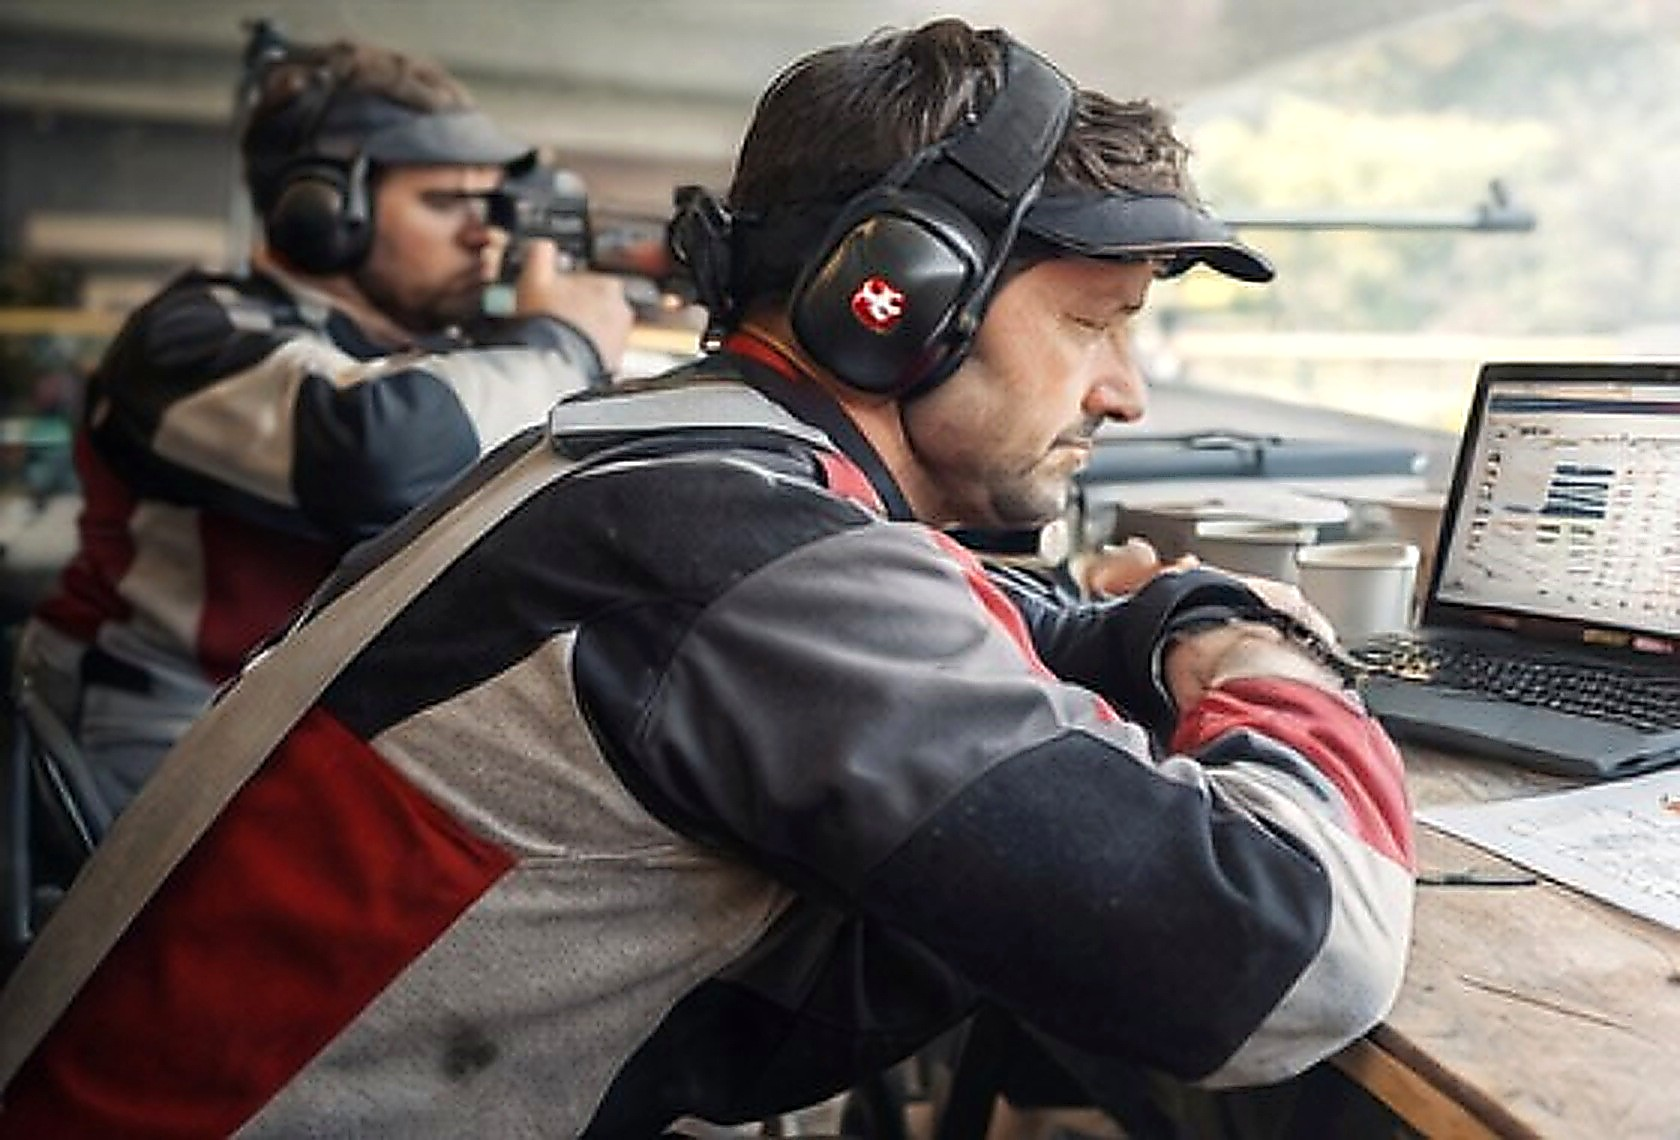
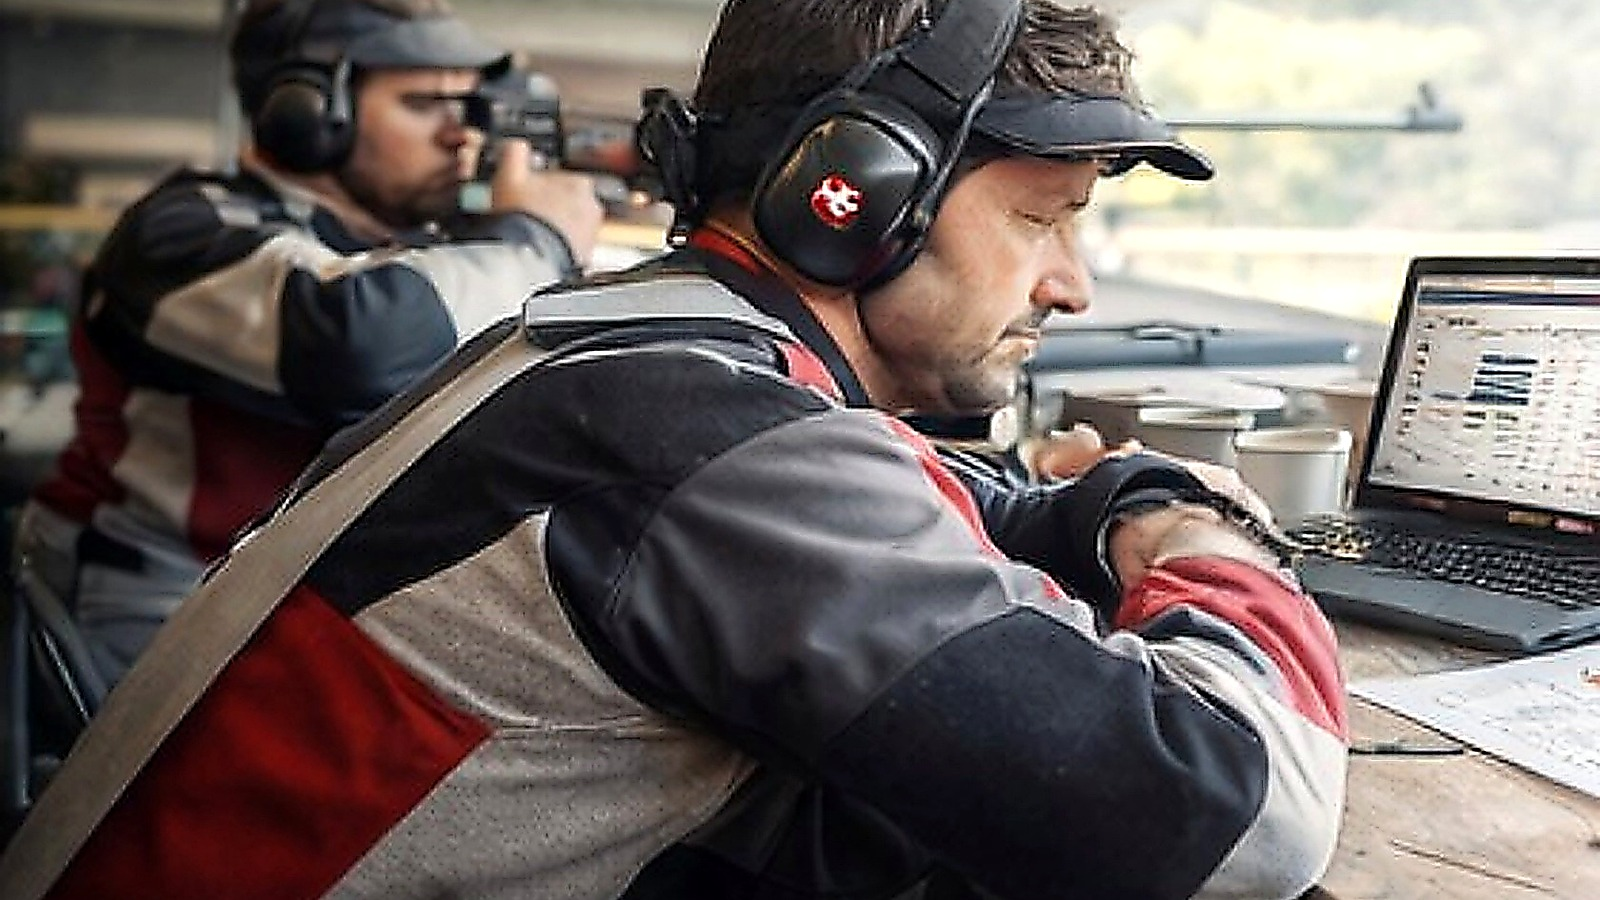
Add files via upload

diff --git a/public/kundenbereich.html b/public/kundenbereich.html
@@ -1,3 +1,136 @@
 <!DOCTYPE html>
-<html lang="de"><head><meta charset="UTF-8"><meta name="viewport" content="width=device-width, initial-scale=1.0"><title>Kundenbereich – mySwissTarget.ch</title><link rel="icon" href="assets/favicon.ico"><link rel="stylesheet" href="styles.css"></head>
-<body><header class="site-header"><nav class="navbar"><a class="brand brand-logo" href="index.html"><img src="assets/logo-nav.png" alt="mySwissTarget.ch"></a><div class="nav-links"><a class="nav-pill" href="index.html#preise">Preise</a><a class="nav-pill" href="bestellung.html">Bestellen</a><a class="btn app-link" href="https://app.myswisstarget.ch" target="_blank" rel="noopener noreferrer">Zur App</a></div></nav></header><main class="page-main"><section class="page-hero"><div class="container"><span class="eyebrow">Kundenbereich</span><h1>Verein, Abo und Rechnungen zentral verwalten</h1><p>Diese Demo zeigt, wie Vereine später ihr Paket, Rechnungen, Zahlungsart und Kontaktdaten selber verwalten können.</p></div></section><section class="section"><div class="container"><div class="module-grid"><article class="page-panel"><h3>Vereinsdaten</h3><p>Kontaktperson, Adresse, E-Mail und Telefonnummer jederzeit anpassen.</p></article><article class="page-panel"><h3>Abo & Paket</h3><p>Basis oder Basis + Pro sehen, Upgrades anfragen und Probeabo verfolgen.</p></article><article class="page-panel"><h3>Rechnungen</h3><p>Offene und bezahlte Rechnungen, Zahlungsarten und nächste Periode im Blick.</p></article></div></div></section></main></body></html>
+<html lang="de">
+<head>
+  <meta charset="UTF-8">
+  <meta name="viewport" content="width=device-width, initial-scale=1.0">
+  <title>Kundenbereich – mySwissTarget.ch</title>
+  <meta name="description" content="Demo für den Kundenbereich von mySwissTarget.ch mit Vereinsdaten, Abo, Rechnungen und Zahlungsarten.">
+  <link rel="icon" href="assets/favicon.ico">
+  <link rel="stylesheet" href="styles.css">
+</head>
+<body>
+  <header class="site-header page-header-solid">
+    <nav class="navbar">
+      <a class="brand brand-logo" href="index.html"><img src="assets/logo-nav.png" alt="mySwissTarget.ch"></a>
+      <div class="nav-links">
+        <a class="nav-pill" href="index.html#preise">Preise</a>
+        <a class="nav-pill" href="bestellung.html">Bestellen</a>
+        <a class="btn app-link" href="https://app.myswisstarget.ch" target="_blank" rel="noopener noreferrer">Zur App</a>
+      </div>
+    </nav>
+  </header>
+
+  <main>
+    <section class="page-hero section">
+      <div class="container">
+        <a class="back-link" href="index.html">← Zurück zur Startseite</a>
+        <div class="section-headline">
+          <span class="eyebrow">Kundenbereich Demo</span>
+          <h1>Vereinsdaten, Abo und Rechnungen zentral verwalten.</h1>
+          <p class="lead max-copy">So kann der Kundenbereich für SwissTarget aussehen: klar, mobil nutzbar und auf Vereine ausgerichtet, die ihre Stammdaten, ihr Paket und ihre Rechnungen selbst im Blick behalten wollen.</p>
+        </div>
+      </div>
+    </section>
+
+    <section class="section">
+      <div class="container customer-grid">
+        <div class="demo-panel form-card">
+          <div class="panel-title-row">
+            <h2>Vereinsdaten bearbeiten</h2>
+            <span class="status-pill active">aktiv</span>
+          </div>
+          <form class="kunden-form">
+            <div class="two-cols">
+              <label><span>Verein</span><input type="text" value="SG Musterfeld"></label>
+              <label><span>Kontaktperson</span><input type="text" value="Max Muster"></label>
+            </div>
+            <div class="two-cols">
+              <label><span>E-Mail</span><input type="email" value="info@sg-musterfeld.ch"></label>
+              <label><span>Telefon</span><input type="text" value="+41 79 123 45 67"></label>
+            </div>
+            <div class="two-cols">
+              <label><span>Strasse</span><input type="text" value="Dorfstrasse 10"></label>
+              <label><span>PLZ / Ort</span><input type="text" value="9100 Herisau"></label>
+            </div>
+            <label><span>Bemerkungen</span><textarea rows="4">Bitte Freischaltung für zwei weitere Vereinsadmins vorbereiten.</textarea></label>
+            <div class="actions">
+              <a class="btn" href="#">Änderungen speichern</a>
+              <a class="secondary-btn" href="#">Kontaktperson wechseln</a>
+            </div>
+            <div class="small-note">Demo-Ansicht: In der Live-Version werden Änderungen direkt in der Datenbank gespeichert.</div>
+          </form>
+        </div>
+
+        <div class="demo-panel">
+          <div class="panel-title-row">
+            <h2>Abo & Paket</h2>
+            <span class="status-pill trial">Probeabo</span>
+          </div>
+          <div class="check-list compact-list">
+            <div class="check-item"><span class="check-icon">✓</span><span><strong>Paket:</strong> Basis + Pro</span></div>
+            <div class="check-item"><span class="check-icon">✓</span><span><strong>Preis:</strong> CHF 35 / Monat nach Probeabo</span></div>
+            <div class="check-item"><span class="check-icon">✓</span><span><strong>Nächster Termin:</strong> 23.04.2026</span></div>
+            <div class="check-item"><span class="check-icon">✓</span><span><strong>Zahlungsart:</strong> Rechnung</span></div>
+          </div>
+          <div class="actions">
+            <a class="secondary-btn" href="#">Auf Karte wechseln</a>
+            <a class="secondary-btn" href="#">Pro-Paket anpassen</a>
+          </div>
+        </div>
+      </div>
+    </section>
+
+    <section class="section">
+      <div class="container content-grid">
+        <div class="demo-panel">
+          <div class="panel-title-row">
+            <h2>Rechnungen</h2>
+            <a class="secondary-btn" href="#">Alle anzeigen</a>
+          </div>
+          <div class="invoice-list">
+            <div class="invoice-item">
+              <div class="invoice-meta"><strong>Rechnung März 2026</strong><span>Basis + Pro · offen · fällig 31.03.2026</span></div>
+              <div class="invoice-action"><strong>CHF 35</strong><div class="small-note">Rechnung</div></div>
+            </div>
+            <div class="invoice-item">
+              <div class="invoice-meta"><strong>Rechnung Februar 2026</strong><span>bezahlt am 28.02.2026</span></div>
+              <div class="invoice-action"><strong>CHF 35</strong><div class="small-note">bezahlt</div></div>
+            </div>
+          </div>
+        </div>
+
+        <div class="demo-panel">
+          <div class="panel-title-row">
+            <h2>Was Vereine hier später können</h2>
+          </div>
+          <ul class="clean-list">
+            <li>Stammdaten selber anpassen</li>
+            <li>Abo und Paket sehen</li>
+            <li>Rechnungen herunterladen</li>
+            <li>Zahlungsart auf Rechnung, Karte oder TWINT umstellen</li>
+            <li>Zusätzliche Admins anfragen</li>
+            <li>Probeabo, aktiv, offen oder pausiert nachvollziehen</li>
+          </ul>
+        </div>
+      </div>
+    </section>
+
+    <section class="section section-last">
+      <div class="container">
+        <div class="cta-banner">
+          <span class="eyebrow">Kundenbereich</span>
+          <h2>Vereine sehen ihr Paket, ihre Daten und ihre Rechnungen auf einen Blick.</h2>
+          <p>Diese Demo zeigt den Aufbau. In der Live-Version wird dieser Bereich direkt mit SwissTarget, Stripe und eurer Lizenzlogik verbunden.</p>
+          <div class="actions center-actions">
+            <a class="btn" href="bestellung.html">Jetzt bestellen</a>
+            <a class="secondary-btn" href="adminbereich.html">Adminbereich ansehen</a>
+          </div>
+        </div>
+      </div>
+    </section>
+  </main>
+
+  <script src="config.js"></script>
+  <script src="app.js"></script>
+</body>
+</html>

diff --git a/public/styles.css b/public/styles.css
@@ -265,12 +265,13 @@ a { color: inherit; text-decoration: none; }
 }
 .card-image {
   width: 100%;
-  height: 320px;
+  aspect-ratio: 4 / 3;
+  min-height: 300px;
   object-fit: cover;
-  object-position: center 42%;
+  object-position: center center;
   background: #e9e6e1;
 }
-.tall-image { object-position: center 38%; }
+.tall-image { object-position: center 40%; }
 .card-body { padding: 28px; }
 .module-label {
   display: inline-flex;
@@ -344,11 +345,17 @@ a { color: inherit; text-decoration: none; }
 }
 .figure-clean img {
   aspect-ratio: 16 / 10;
-  object-position: center 42%;
+  object-position: center 48%;
 }
 .figure-wide img {
   aspect-ratio: 16 / 9;
-  object-position: center 42%;
+  object-position: center 48%;
+}
+.image-only {
+  overflow: hidden;
+}
+.image-only img {
+  display: block;
 }
 .figure-card figcaption {
   padding: 14px 18px 18px;
@@ -505,9 +512,10 @@ a { color: inherit; text-decoration: none; }
   .navbar {
     width: calc(100% - 20px);
     margin-top: 10px;
+    padding: 8px 8px;
   }
   .hero {
-    margin-top: -104px;
+    margin-top: -92px;
   }
   .hero-card-inner {
     width: calc(100% - 20px);
@@ -527,24 +535,41 @@ a { color: inherit; text-decoration: none; }
     gap: 8px;
   }
   .nav-pill { display: none; }
-  .card-image { height: 230px; }
+  .card-image {
+    aspect-ratio: 4 / 3;
+    min-height: 240px;
+  }
+  .figure-clean img,
+  .figure-wide img {
+    aspect-ratio: 4 / 3;
+  }
+  .admin-layout .image-only {
+    order: -1;
+  }
 }
 
 @media (max-width: 560px) {
-  .brand { font-size: 0.94rem; padding: 11px 16px; }
+  .brand { font-size: 0.92rem; padding: 10px 14px; }
+  .brand-logo img { height: 22px; width: auto; }
   .btn, .secondary-btn { width: 100%; }
   .actions { flex-direction: column; }
-  .hero-media { min-height: 520px; }
+  .hero-media { min-height: 500px; }
   .hero-card { bottom: 18px; }
-  .hero h1 { font-size: 2.5rem; }
+  .hero h1 { font-size: 2.35rem; }
   .section-headline h2,
   .split-layout h2,
   .cta-banner h2,
-  .page-hero h1 { font-size: 2rem; }
+  .page-hero h1 { font-size: 1.92rem; }
   .card-body,
   .pricing-shell,
   .price-card,
   .cta-banner { padding: 20px; }
+  .module-card h3 {
+    font-size: 1.78rem;
+  }
+  .card-image {
+    min-height: 250px;
+  }
 }
 
 
@@ -802,3 +827,62 @@ body strong { color: var(--text); }
 .admin-visual{min-height:420px;overflow:hidden}
 .brand-signature img{max-width:min(760px,100%);margin:0 auto}
 @media (max-width: 980px){.card-image,.tall-image{height:260px}.figure-clean,.admin-visual{min-height:320px}}
+
+.customer-grid {
+  display:grid;
+  grid-template-columns: 1.1fr 0.9fr;
+  gap: 20px;
+}
+.form-card {
+  padding: 24px;
+}
+.kunden-form {
+  display:grid;
+  gap: 14px;
+}
+.kunden-form .two-cols {
+  display:grid;
+  grid-template-columns: 1fr 1fr;
+  gap: 14px;
+}
+.kunden-form label {
+  display:grid;
+  gap: 8px;
+}
+.kunden-form input,
+.kunden-form textarea,
+.kunden-form select {
+  width:100%;
+  border-radius: 16px;
+  border: 1px solid rgba(28,35,49,0.12);
+  background: rgba(255,255,255,0.95);
+  padding: 13px 15px;
+  font: inherit;
+  color: var(--text);
+}
+.small-note { color: var(--muted); font-size: 0.92rem; line-height: 1.6; }
+.invoice-list { display:grid; gap: 12px; margin-top: 16px; }
+.invoice-item {
+  display:flex;
+  justify-content:space-between;
+  gap: 16px;
+  padding: 16px 18px;
+  border-radius: 20px;
+  background:white;
+  border: 1px solid var(--line);
+}
+.invoice-meta strong { display:block; margin-bottom: 4px; }
+.invoice-meta span { color: var(--muted); }
+.invoice-action { text-align:right; min-width: 110px; }
+.content-grid {
+  display:grid;
+  grid-template-columns: 1fr 1fr;
+  gap: 18px;
+}
+@media (max-width: 820px) {
+  .customer-grid,
+  .content-grid,
+  .kunden-form .two-cols {
+    grid-template-columns: 1fr;
+  }
+}

diff --git a/public/adminbereich.html b/public/adminbereich.html
@@ -120,6 +120,34 @@
       </div>
     </section>
 
+
+    <section class="section">
+      <div class="container">
+        <div class="content-grid">
+          <div class="demo-panel">
+            <h3>Website-Inhalte bearbeiten</h3>
+            <p>Hero-Titel, Verkaufstexte, Preise, FAQ und Buttons können in einem klaren Bereich gepflegt werden – ohne direkt im Code arbeiten zu müssen.</p>
+            <ul class="clean-list">
+              <li>Hero-Titel und Untertitel ändern</li>
+              <li>Preisblöcke und FAQ aktualisieren</li>
+              <li>Startseitenbilder austauschen</li>
+              <li>CTA-Buttons und Ziel-Links pflegen</li>
+            </ul>
+          </div>
+          <div class="demo-panel">
+            <h3>Support &amp; Freischaltung</h3>
+            <p>Admin sieht Testphasen, offene Zahlungen, Supportfälle und kann Vereine bei Bedarf manuell freischalten oder pausieren.</p>
+            <ul class="clean-list">
+              <li>Probeabo verlängern</li>
+              <li>Rechnung als bezahlt markieren</li>
+              <li>Freischaltung manuell setzen</li>
+              <li>Support-Notizen hinterlegen</li>
+            </ul>
+          </div>
+        </div>
+      </div>
+    </section>
+
     <section class="section section-last">
       <div class="container">
         <div class="cta-banner">

diff --git a/public/index.html b/public/index.html
@@ -251,8 +251,8 @@
               <div class="admin-info-card"><strong>Verwalten</strong><span>Kunden, Rechnungen, Abos und Supportfälle in einem klaren Bereich.</span></div>
             </div>
             <div class="actions">
-              <a class="secondary-btn" href="adminbereich.html">Adminbereich als Demo ansehen</a>
-              <a class="secondary-btn" href="kundenbereich.html">Kundenbereich als Demo ansehen</a>
+              <a class="secondary-btn" href="adminbereich.html">Adminbereich öffnen</a>
+              <a class="secondary-btn" href="kundenbereich.html">Kundenbereich öffnen</a>
               <a class="btn" href="bestellung.html">Bestellformular öffnen</a>
             </div>
           </div>
